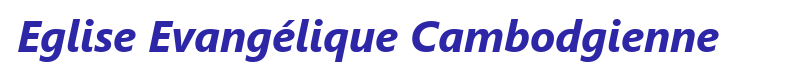
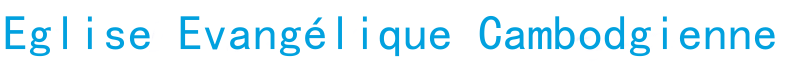
design

Changed region(s): [[0.0, 0.2286, 0.9688, 0.8857], [0.8125, 0.2286, 0.8438, 0.3143]]

diff --git a/ScheduleManager/war/css/screens.css b/ScheduleManager/war/css/screens.css
@@ -7,28 +7,34 @@ body {
   padding:0px !important;
 }
 
+.span12 {
+	width: 97% !important;
+}
+
 .container {
 	position: relative;
+	margin-top:30px;
 	margin-left: 5% !important;
 	width: 75% !important;
     max-width: 1800px !important;
     min-height: 800px !important;
     padding-left:25px !important;
     padding-right:25px !important;
-	box-shadow:0px 0px 5px #000 inset;
 }
 
 .login {
 	position: absolute;
-	margin-top: -800px;
+	top: 20px;
+	width: 18%;
 	margin-left: 81%;
+	text-align:right;
 }
 
 .planning {
 	position: absolute;
-	height:300px;
+	height:400px;
 	width: 18%;
-	margin-top: -600px;
+	top: 162px;
 	margin-left: 81%;
 }
 
@@ -36,8 +42,14 @@ body {
 	width: 100%;
 }
 
+.tablePlanning {
+	width: 100%;
+}
+
 .labelPlanning {
 	height: 30px;
+	margin-left: 2px;
+	margin-top: 10px;
 }
 
 .footer {
@@ -46,15 +58,6 @@ body {
 	margin : auto;
 }
 
-.span12 {
-	width: 95% !important;
-}
-
-h1.title{
-	text-indent:-9000px;
-	width:800px;
-	height:70px;
-}
 
 /* MODAL */
 .modal-body {
@@ -65,13 +68,13 @@ h1.title{
 
 /* MENU */
 ul.sdt_menu{
-	margin-top:10px ! important;
-	margin:0;
-	margin-left:15px;
+	margin-top:20px ! important;
+	//margin:0;
+	margin-left:30px;
 	padding:0;
 	list-style: none;
 	font-family:"Myriad Pro", "Trebuchet MS", sans-serif;
-	font-size:14px;
+	font-size:13px;
 	width:100%;
 }
 ul.sdt_menu a{
@@ -80,8 +83,8 @@ ul.sdt_menu a{
 }
 ul.sdt_menu li{
 	float:left;
-	width:120px;
-	height:90px;
+	width:110px;
+	height:80px;
 	position:relative;
 	cursor:pointer;
 }
@@ -89,9 +92,9 @@ ul.sdt_menu li > a{
 	position:absolute;
 	top:0px;
 	left:0px;
-	width:120px;
-	height:90px;
-	background:#343434;
+	width:110px;
+	height:80px;
+	background-image: linear-gradient(#343434, #01A1DF);
 	-moz-box-shadow:0px 0px 2px #000 inset;
 	-webkit-box-shadow:0px 0px 2px #000 inset;
 	box-shadow:0px 0px 2px #000 inset;
@@ -112,15 +115,15 @@ ul.sdt_menu li span.sdt_wrap{
 	position:absolute;
 	top:25px;
 	left:0px;
-	width:120px;
+	width:110px;
 	height:60px;
 	z-index:15;
 }
 ul.sdt_menu li span.sdt_active{
 	position:absolute;
-	background-image: linear-gradient(#343434, #01A1DF);
-	top:90px;
-	width:120px;
+	background-image: linear-gradient(#01A1DF, #343434);
+	top:80px;
+	width:110px;
 	height:0px;
 	left:0px;
 	z-index:2;
@@ -142,7 +145,7 @@ ul.sdt_menu li div.sdt_box a{
 
 ul.sdt_menu li span span.sdt_link{
 	color:#fff;
-	font-size:18px;
+	font-size:16px;
 	float:left;
 	clear:both;
 }
@@ -157,13 +160,13 @@ ul.sdt_menu li span span.sdt_descr{
 ul.sdt_menu li div.sdt_box{
 	display:block;
 	position:absolute;
-	width:146px;
+	width:140px;
 	overflow:hidden;
-	height:110px;
-	top:90px;
+	height:100px;
+	top:80px;
 	left:0px;
 	display:none;
-	background-image: linear-gradient(#343434, #01A1DF);
+	background-image: linear-gradient(#01A1DF, #343434);
 	z-index: 14;
 }
 ul.sdt_menu li div.sdt_box a{
@@ -173,7 +176,7 @@ ul.sdt_menu li div.sdt_box a{
 	color:#ddd;
 }
 ul.sdt_menu li div.sdt_box a:first-child{
-	margin-top:15px;
+	margin-top:11px;
 }
 ul.sdt_menu li div.sdt_box a:hover{
 	color:#fff;

diff --git a/ScheduleManager/war/css/styles.css b/ScheduleManager/war/css/styles.css
@@ -1,18 +1,9 @@
 @CHARSET "ISO-8859-1";
 
-/* GENERAL */
+/*********** GENERAL ***********/
 html body{
 	background:#363636;
 	font-family:"Myriad Pro", "Trebuchet MS", sans-serif;
-}
-
-.container {
-	background: #BBBBBB;
-}
-
-img {
-	margin: auto;
-	max-width: 100%;
 }
 
 @font-face {
@@ -20,24 +11,51 @@ img {
 	src:url('lmns1.ttf');
 }
 
+.container {
+	background: #BBBBBB;
+	box-shadow:0px 0px 5px #000 inset;
+}
+
+img {
+	margin: auto;
+	max-width: 100%;
+}
+
+.title{
+	max-width: 100%;
+	height: 270px;
+}
+
 .inputKH {
 	font-size:22px;
 	font-family:"khmerUnicode";
 }
 
+span.reference a:hover{
+	color:#ddd;
+}
+		
+table{
+	margin-bottom:0px !important;
+}
+
+/******* PLANNING ***********/
 .planning {
 	background: #BBBBBB;
+	box-shadow:0px 0px 5px #000 inset;
 }
 
 #planning {
-	background: #01A1DF;
 	text-align: center;
 }
 
 .labelPlanning {
+	background-image: linear-gradient(#01A1DF, #343434);
 	font-family:"Myriad Pro", "Trebuchet MS", sans-serif;
+	font-size:13px;
 	color:#fff;
-	box-shadow: 0px 2px 0px #BBBBBB;
+	padding: 7px;
+	box-shadow:0px 0px 7px #23576B inset;
 }
 
 .titlePlanning {
@@ -50,40 +68,47 @@ img {
 	border: 1px solid #000;
 }
 
-.title{
-	max-width: 100%;
-}
 
-span.reference a:hover{
-	color:#ddd;
-}
-		
-table{
-	margin-bottom:0px !important;
-}
+
+
+/********* BLOGTABLE **********/
 .blogTable {
 	border-collapse: separate;
-	background-color: #01A1DF;
-	border-spacing: 0px !important;
+	background-color: #BBBBBB;
+	//border-spacing: 10px !important;
 	border-radius: 5px;
-	padding:10px;
-	box-shadow:0px 0px 5px #000 inset;
+	padding:0px;
+	//box-shadow:0px 0px 5px #000 inset;
 }
 .blogTable td{
-	background-color: #F5F5F5;
-	border: none;
-	box-shadow:3px 6px 3px #fff inset;
+	background-color: #fff;
+	border-top:0px !important;
+	border-radius: 5px;
+	box-shadow:0px 0px 7px #23576B inset;
 }
 
-.nav-pills>li.active>a, .nav-pills>li.active>a:hover, .nav-pills>li.active>a:focus {
-	color:#0B6AA1 !important;
-	background-image:linear-gradient(#f7cc4c, white) !important;
-}
 
-.nav>li>a:hover, .nav>li>a:focus {
-	background-image:linear-gradient(#587484, white) !important;
-}
 
+
+/********* PHOTOS ***********/
 .dossierPhotos {
 	border: 2px #000 solid;
 }
+
+
+
+
+
+/*********** ONGLETS **********/
+.nav-pills>li.active>a, .nav-pills>li.active>a:hover, .nav-pills>li.active>a:focus {
+	color:#fff !important;
+	background-image:linear-gradient(#01A1DF, #23576B) !important;
+	box-shadow:0px 2px 3px #fff inset;
+}
+
+.nav>li>a:hover, .nav>li>a:focus {
+	color:#fff !important;
+	background-image:linear-gradient(#23576B, #01A1DF) !important;
+	box-shadow:0px 2px 3px #fff inset;
+}
+

diff --git a/ScheduleManager/src/fr/eemcs/schedulemanager/client/ScheduleManager.java b/ScheduleManager/src/fr/eemcs/schedulemanager/client/ScheduleManager.java
@@ -42,26 +42,28 @@ public class ScheduleManager implements EntryPoint {
 			public void onSuccess(List<EvenementInfo> result) {
 				
 				VerticalPanel vp = new VerticalPanel();
-				vp.setHorizontalAlignment(HasHorizontalAlignment.ALIGN_CENTER);
-				vp.setVerticalAlignment(HasVerticalAlignment.ALIGN_MIDDLE);
+				vp.setStyleName("tablePlanning");
 				
 				for(EvenementInfo event : result) {
-					final Label ligne = new Label(event.getDate() + "      " + event.getLieu().getNom());
+					final Label ligne = new Label(event.getDate() + " " + event.getLieu().getNom());
 					ligne.setStyleName("labelPlanning");
 					vp.add(ligne);
 					
 					final VerticalPanel vpPopup = new VerticalPanel();
-					Label lbEntete = new Label(event.getDate() + " " + event.getDivers());
+					Label lbEntete = new Label(event.getDate());
+					Label lbDivers = new Label(event.getDivers());
 					Label lbHR = new Label("");
 					Label lbLieu = new Label(event.getLieu().getNom());
 					Label lbAdresse = new Label(event.getLieu().getAdresse());
 					Label lbVille = new Label(event.getLieu().getCodePostal() + " " + event.getLieu().getVille());
 					lbEntete.setStyleName("entetePlanning");
+					lbDivers.setStyleName("entetePlanning");
 					lbHR.setStyleName("hrPlanning");
 					lbLieu.setStyleName("titlePlanning");
 					lbAdresse.setStyleName("titlePlanning");
 					lbVille.setStyleName("titlePlanning");
 					vpPopup.add(lbEntete);
+					vpPopup.add(lbDivers);
 					vpPopup.add(lbHR);
 					vpPopup.add(lbLieu);
 					vpPopup.add(lbAdresse);
@@ -81,7 +83,6 @@ public class ScheduleManager implements EntryPoint {
 						
 						@Override
 						public void onMouseOut(MouseOutEvent event) {
-							// TODO Auto-generated method stub
 							pp.hide();
 						}
 					});
